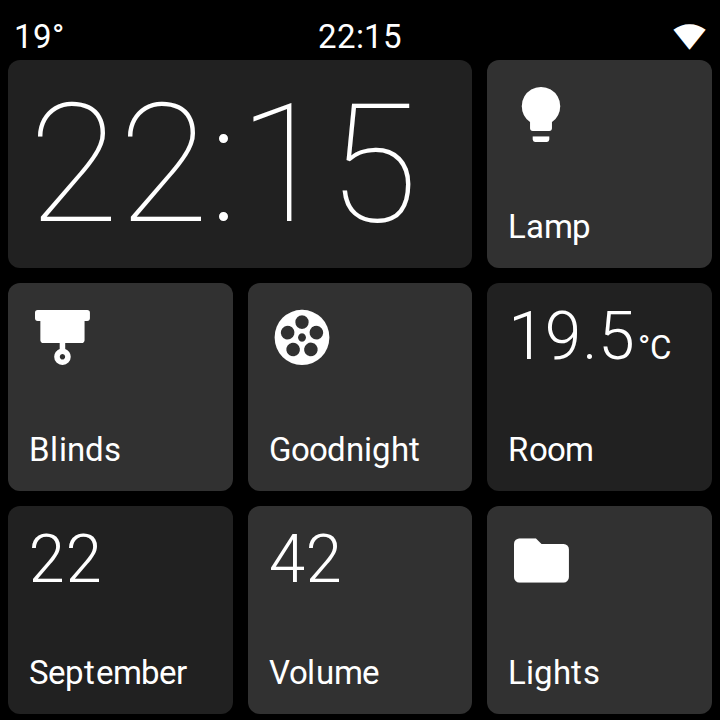
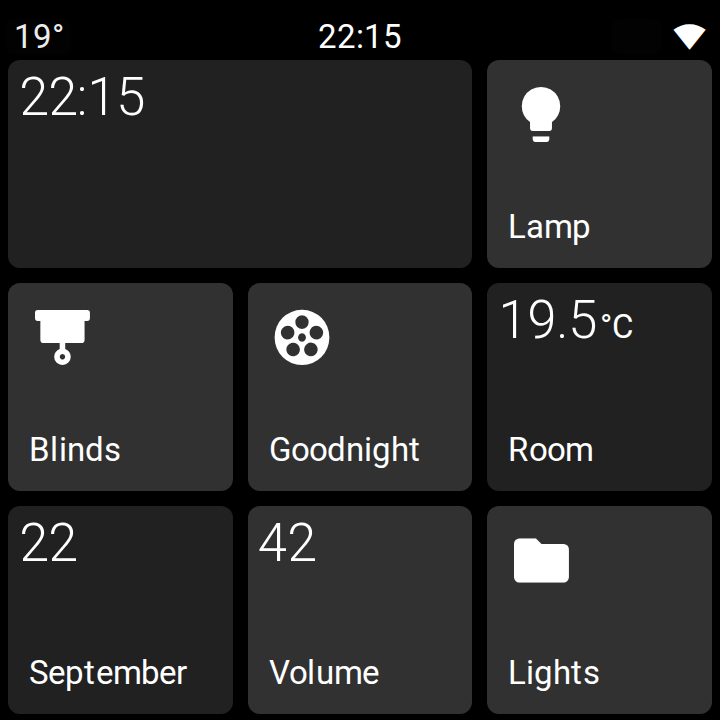
Reduce and top-align numbers in documentation examples

diff --git a/scripts/render_docs_examples.js b/scripts/render_docs_examples.js
@@ -15,6 +15,11 @@ const manifest = JSON.parse(fs.readFileSync(path.join(ROOT, "devices/manifest.js
 const { WEB_UI_COLORS: colors } = loadTypeScriptModule(path.join(ROOT, "src/webserver/state/ui_tokens.ts"));
 const examples = JSON.parse(fs.readFileSync(path.join(__dirname, "fixtures/docs-interface-examples.json"), "utf8"));
 
+// Visual calibration for documentation, following device-comparison feedback.
+// Browser font sizes and ink placement are not identical to LVGL font metrics.
+const NUMBER_SCALE = 0.8;
+const NUMBER_INSET_SCALE = 0.5;
+
 function firmwareMetrics(slug) {
   const device = manifest.devices[slug];
   const substitutions = device.firmware.package.substitutions;
@@ -58,8 +63,12 @@ function captureStyles(m) {
       --grid-top:${m.top}px; --grid-left:${m.left}px; --grid-right:${m.right}px;
       --grid-bottom:${m.bottom}px; --grid-gap:${m.gap}px;
     }
-    .sp-sensor-value { font-size:${m.sensor}px }
-    .sp-sensor-preview-large .sp-sensor-value { font-size:${m.largeSensor}px!important }
+    .sp-screen .sp-btn .sp-sensor-preview {
+      position:absolute; left:${m.padding * NUMBER_INSET_SCALE}px; top:${m.padding * NUMBER_INSET_SCALE}px;
+      margin:0; justify-content:flex-start; align-items:baseline;
+    }
+    .sp-screen .sp-sensor-value { font-size:${m.sensor * NUMBER_SCALE}px; line-height:1 }
+    .sp-screen .sp-sensor-preview-large .sp-sensor-value { font-size:${m.largeSensor * NUMBER_SCALE}px!important }
     .sp-sensor-badge, .sp-subpage-badge, .sp-badge, .sp-support-btn { display:none!important }
     .sp-btn { box-shadow:none!important; transition:none!important }
     .sp-btn:hover { filter:none!important }
@@ -150,6 +159,18 @@ async function render(browser, bundleDir, example) {
   for (const key of ["width", "height", "padding", "radius", "gap", "cols", "label"]) assert.equal(metrics[key], m[key], `${example.name}: ${key}`);
   assert(metrics.fontsReady, "Bundled fonts must be loaded");
   assert(!metrics.chevrons, "No subpage arrows in documentation examples");
+  const numbers = await page.locator(".sp-main .sp-sensor-preview").evaluateAll(blocks => blocks.map(block => {
+    const value = block.querySelector(".sp-sensor-value");
+    const card = block.closest(".sp-btn").getBoundingClientRect();
+    const rect = block.getBoundingClientRect();
+    return { left: rect.left - card.left, top: rect.top - card.top,
+      size: parseFloat(getComputedStyle(value).fontSize), large: block.classList.contains("sp-sensor-preview-large") };
+  }));
+  for (const numeric of numbers) {
+    assert(Math.abs(numeric.left - m.padding * NUMBER_INSET_SCALE) < 0.1, "Number left inset");
+    assert(Math.abs(numeric.top - m.padding * NUMBER_INSET_SCALE) < 0.1, "Number top inset");
+    assert(Math.abs(numeric.size - (numeric.large ? m.largeSensor : m.sensor) * NUMBER_SCALE) < 0.1, "Number size");
+  }
   assert.deepEqual(errors, []);
   await page.locator(".sp-screen").screenshot({ path: path.join(DEST, `${example.name}-render.png`) });
   await page.close();

diff --git a/docs/public/images/examples/README.md b/docs/public/images/examples/README.md
@@ -1,6 +1,6 @@
 # Interface example renders
 
-These PNGs are rendered from the production web card components with native firmware measurements, not AI-generated images or physical-device screenshots.
+These PNGs are rendered from the production web card components using firmware layout measurements and browser-specific numeric calibration, not AI-generated images or physical-device screenshots.
 
 From the repository root, with `npm ci` and Playwright Chromium installed, run:
 
@@ -22,6 +22,8 @@ The renderer builds a temporary bundle with the existing test hooks, supplies th
 - Roboto and Material Design Icons: the bundled assets under `common/assets/fonts/`, embedded by the normal web build.
 - Flat active, control and information colours: `src/webserver/state/ui_tokens.ts` (matching the firmware theme).
 
-The capture script removes editor borders, badges and hover decoration, hides subpage chevrons, and supplies sample readings and active colours. It does not change the production interface. It verifies rendered dimensions, grid columns, padding, radius, gaps, label size, font loading and hidden chevrons before saving. No live device or Home Assistant connection is used.
+The capture script removes editor borders, badges and hover decoration, hides subpage chevrons, and supplies sample readings and active colours. It does not change the production interface. Standard numeric values render at 80% of the firmware font size, with their containers inset by half the normal card padding at the top-left. This is a visual calibration requested during device comparison, not a firmware sizing rule. The bedside example disables Large Clock.
+
+The script verifies rendered dimensions, grid columns, padding, radius, gaps, label size, numeric size and position, font loading and hidden chevrons before saving. No live device or Home Assistant connection is used.
 
 Browser text metrics, wrapping and antialiasing can differ from LVGL; firmware width compensation is not simulated. These are source-based documentation illustrations, not pixel-perfect firmware captures or hardware validation. Exact device screenshots would require capturing the LVGL framebuffer or running the firmware UI in an LVGL simulator.

diff --git a/docs/features/screen-examples.md b/docs/features/screen-examples.md
@@ -8,7 +8,7 @@ description:
 
 Use these examples as a starting point for arranging your own panel. Each combines existing card types in a grid supported by the display shown.
 
-These are **rendered interface examples** using the real card components, bundled fonts and icons, and spacing and font sizes read from each device’s firmware configuration. Names and readings are sample data. They are browser renders rather than device screenshots, so text rasterisation and some alignment may differ on hardware. Build the layouts in [Setup](/features/setup); they are not downloadable configurations.
+These are **rendered interface examples** using the real card components, bundled fonts and icons, and layout measurements read from each device’s firmware configuration. Numeric size and position are adjusted for these browser illustrations. Names and readings are sample data. They are browser renders rather than device screenshots, so text rasterisation and some alignment may differ on hardware. Build the layouts in [Setup](/features/setup); they are not downloadable configurations.
 
 ## Living Room: Controls and Readings
 
@@ -50,7 +50,7 @@ A square [4-inch P4-86 panel](/screens/p4-86) has a three-column, three-row grid
 
 | Cards in the example | How to create them |
 |---|---|
-| 22:15 and September | [Date & Time](/card-types/calendar): a Wide Clock with Large Clock enabled, plus a separate Single Date card. |
+| 22:15 and September | [Date & Time](/card-types/calendar): a Wide Clock with Large Clock disabled, plus a separate Single Date card. |
 | Lamp and Blinds | [Lights](/card-types/lights) set to Switch, and a [Cover](/card-types/covers) card. |
 | Goodnight | An [Action](/card-types/actions) card for your own bedtime scene or script. |
 | Room | A numeric [Sensor](/card-types/sensors) card with °C as its unit. |
